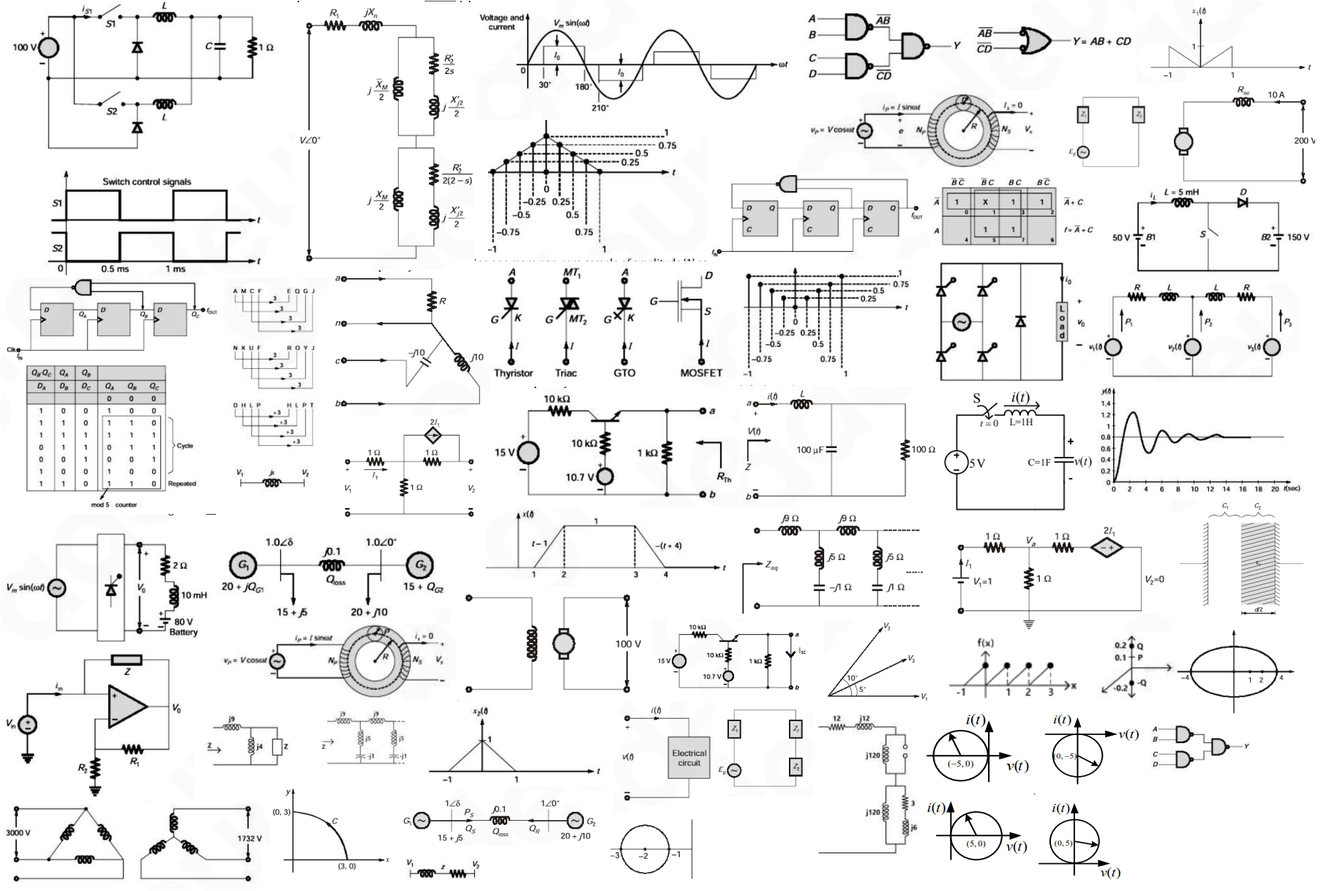
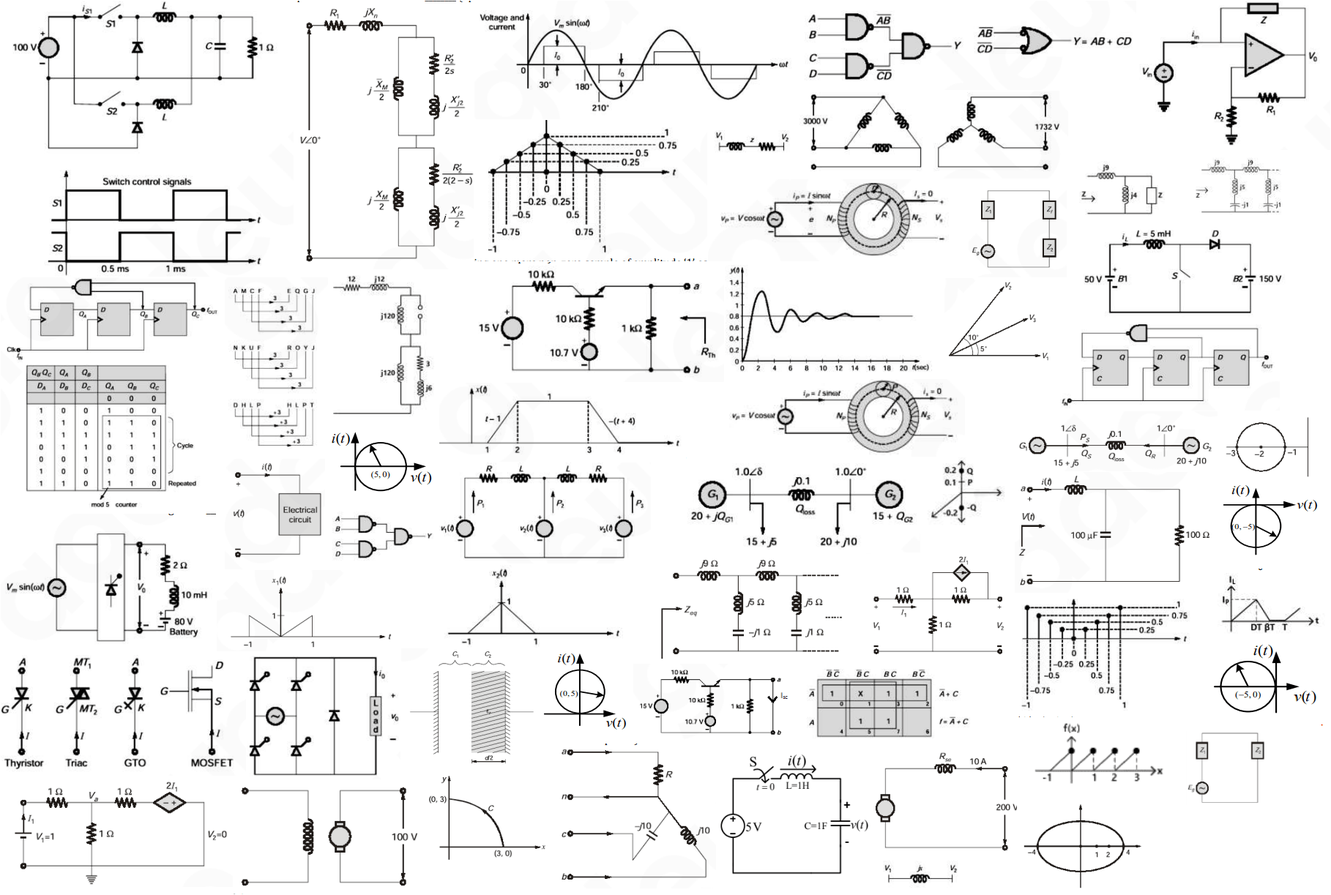
Updated

diff --git a/img/gate/elect/prev/gate_ee_2018.css b/img/gate/elect/prev/gate_ee_2018.css
@@ -8,166 +8,169 @@ Responsive: <div class="yourspritesname"></div>
 
 
 .GATE_EE_2018_11sol {max-width:126px; max-height:52px; }
-.GATE_EE_2018_11sol::after {content: '\00a0';display: inline-block; width:126px; height:52px; background-position: 18.284693269803455% 53.81974248927039%;background-size: 1432.5396825396826% 2340.3846153846152%;background-image: url(gate_ee_2018.png);padding: 0; }
+.GATE_EE_2018_11sol::after {content: '\00a0';display: inline-block; width:126px; height:52px; background-position: 70.44917257683215% 99.74380871050384%;background-size: 1442.857142857143% 2351.923076923077%;background-image: url(gate_ee_2018.png);padding: 0; }
 div.GATE_EE_2018_11sol::after {max-width:126px; width:100%;height:0;padding: 0 0 41.26984126984127% 0;}
 .GATE_EE_2018_11sola {max-width:121px; max-height:59px; }
-.GATE_EE_2018_11sola::after {content: '\00a0';display: inline-block; width:121px; height:59px; background-position: 32.36342042755344% 99.91364421416235%;background-size: 1491.7355371900826% 2062.7118644067796%;background-image: url(gate_ee_2018.png);padding: 0; }
+.GATE_EE_2018_11sola::after {content: '\00a0';display: inline-block; width:121px; height:59px; background-position: 56.98291101944608% 14.0893470790378%;background-size: 1502.4793388429753% 2072.8813559322034%;background-image: url(gate_ee_2018.png);padding: 0; }
 div.GATE_EE_2018_11sola::after {max-width:121px; width:100%;height:0;padding: 0 0 48.760330578512395% 0;}
 .GATE_EE_2018_14 {max-width:154px; max-height:76px; }
-.GATE_EE_2018_14::after {content: '\00a0';display: inline-block; width:154px; height:76px; background-position: 94.60932768019383% 86.24014022787028%;background-size: 1172.077922077922% 1601.3157894736842%;background-image: url(gate_ee_2018.png);padding: 0; }
+.GATE_EE_2018_14::after {content: '\00a0';display: inline-block; width:154px; height:76px; background-position: 26.74278846153846% 60.76721883173496%;background-size: 1180.5194805194806% 1609.2105263157894%;background-image: url(gate_ee_2018.png);padding: 0; }
 div.GATE_EE_2018_14::after {max-width:154px; width:100%;height:0;padding: 0 0 49.35064935064935% 0;}
 .GATE_EE_2018_14sol {max-width:462px; max-height:122px; }
-.GATE_EE_2018_14sol::after {content: '\00a0';display: inline-block; width:462px; height:122px; background-position: 81.16157855547283% 0.091324200913242%;background-size: 390.6926406926407% 997.5409836065573%;background-image: url(gate_ee_2018.png);padding: 0; }
+.GATE_EE_2018_14sol::after {content: '\00a0';display: inline-block; width:462px; height:122px; background-position: 80.3834808259587% 0.09082652134423251%;background-size: 393.5064935064935% 1002.4590163934427%;background-image: url(gate_ee_2018.png);padding: 0; }
 div.GATE_EE_2018_14sol::after {max-width:462px; width:100%;height:0;padding: 0 0 26.406926406926406% 0;}
 .GATE_EE_2018_16sol {max-width:210px; max-height:104px; }
-.GATE_EE_2018_16sol::after {content: '\00a0';display: inline-block; width:210px; height:104px; background-position: 80.25078369905957% 77.62803234501348%;background-size: 859.5238095238095% 1170.1923076923076%;background-image: url(gate_ee_2018.png);padding: 0; }
+.GATE_EE_2018_16sol::after {content: '\00a0';display: inline-block; width:210px; height:104px; background-position: 86.87810945273633% 87.66756032171581%;background-size: 865.7142857142857% 1175.9615384615386%;background-image: url(gate_ee_2018.png);padding: 0; }
 div.GATE_EE_2018_16sol::after {max-width:210px; width:100%;height:0;padding: 0 0 49.523809523809526% 0;}
 .GATE_EE_2018_17 {max-width:441px; max-height:162px; }
-.GATE_EE_2018_17::after {content: '\00a0';display: inline-block; width:441px; height:162px; background-position: 47.50733137829912% 0.0947867298578199%;background-size: 409.297052154195% 751.2345679012345%;background-image: url(gate_ee_2018.png);padding: 0; }
+.GATE_EE_2018_17::after {content: '\00a0';display: inline-block; width:441px; height:162px; background-position: 47.05882352941177% 0.0942507068803016%;background-size: 412.2448979591837% 754.9382716049382%;background-image: url(gate_ee_2018.png);padding: 0; }
 div.GATE_EE_2018_17::after {max-width:441px; width:100%;height:0;padding: 0 0 36.734693877551024% 0;}
 .GATE_EE_2018_19 {max-width:214px; max-height:152px; }
-.GATE_EE_2018_19::after {content: '\00a0';display: inline-block; width:214px; height:152px; background-position: 28.221244500314267% 53.333333333333336%;background-size: 843.4579439252336% 800.6578947368421%;background-image: url(gate_ee_2018.png);padding: 0; }
+.GATE_EE_2018_19::after {content: '\00a0';display: inline-block; width:214px; height:152px; background-position: 73.00498753117208% 70.58823529411765%;background-size: 849.5327102803739% 804.6052631578947%;background-image: url(gate_ee_2018.png);padding: 0; }
 div.GATE_EE_2018_19::after {max-width:214px; width:100%;height:0;padding: 0 0 71.02803738317758% 0;}
 .GATE_EE_2018_19sol {max-width:317px; max-height:151px; }
-.GATE_EE_2018_19sol::after {content: '\00a0';display: inline-block; width:317px; height:151px; background-position: 86.15591397849462% 66.79174484052533%;background-size: 569.4006309148265% 805.9602649006622%;background-image: url(gate_ee_2018.png);padding: 0; }
+.GATE_EE_2018_19sol::after {content: '\00a0';display: inline-block; width:317px; height:151px; background-position: 0.06662225183211193% 98.97388059701493%;background-size: 573.5015772870662% 809.933774834437%;background-image: url(gate_ee_2018.png);padding: 0; }
 div.GATE_EE_2018_19sol::after {max-width:317px; width:100%;height:0;padding: 0 0 47.63406940063091% 0;}
 .GATE_EE_2018_23 {max-width:210px; max-height:174px; }
-.GATE_EE_2018_23::after {content: '\00a0';display: inline-block; width:210px; height:174px; background-position: 79.9373040752351% 33.74880153403643%;background-size: 859.5238095238095% 699.4252873563219%;background-image: url(gate_ee_2018.png);padding: 0; }
+.GATE_EE_2018_23::after {content: '\00a0';display: inline-block; width:210px; height:174px; background-position: 20.95771144278607% 84.93803622497617%;background-size: 865.7142857142857% 702.8735632183908%;background-image: url(gate_ee_2018.png);padding: 0; }
 div.GATE_EE_2018_23::after {max-width:210px; width:100%;height:0;padding: 0 0 82.85714285714286% 0;}
 .GATE_EE_2018_24sol {max-width:115px; max-height:106px; }
-.GATE_EE_2018_24sol::after {content: '\00a0';display: inline-block; width:115px; height:106px; background-position: 88.22485207100591% 77.76777677767777%;background-size: 1569.5652173913043% 1148.1132075471698%;background-image: url(gate_ee_2018.png);padding: 0; }
+.GATE_EE_2018_24sol::after {content: '\00a0';display: inline-block; width:115px; height:106px; background-position: 73.8696418085731% 55.95344673231871%;background-size: 1580.8695652173913% 1153.7735849056603%;background-image: url(gate_ee_2018.png);padding: 0; }
 div.GATE_EE_2018_24sol::after {max-width:115px; width:100%;height:0;padding: 0 0 92.17391304347827% 0;}
 .GATE_EE_2018_28 {max-width:289px; max-height:138px; }
-.GATE_EE_2018_28::after {content: '\00a0';display: inline-block; width:289px; height:138px; background-position: 98.02110817941953% 35.588507877664505%;background-size: 624.5674740484429% 881.8840579710145%;background-image: url(gate_ee_2018.png);padding: 0; }
+.GATE_EE_2018_28::after {content: '\00a0';display: inline-block; width:289px; height:138px; background-position: 39.24133420536298% 58.24884792626728%;background-size: 629.0657439446367% 886.231884057971%;background-image: url(gate_ee_2018.png);padding: 0; }
 div.GATE_EE_2018_28::after {max-width:289px; width:100%;height:0;padding: 0 0 47.75086505190311% 0;}
 .GATE_EE_2018_28sol {max-width:154px; max-height:123px; }
-.GATE_EE_2018_28sol::after {content: '\00a0';display: inline-block; width:154px; height:123px; background-position: 68.14052089642641% 77.23948811700183%;background-size: 1172.077922077922% 989.430894308943%;background-image: url(gate_ee_2018.png);padding: 0; }
+.GATE_EE_2018_28sol::after {content: '\00a0';display: inline-block; width:154px; height:123px; background-position: 77.52403846153847% 34.54545454545455%;background-size: 1180.5194805194806% 994.3089430894308%;background-image: url(gate_ee_2018.png);padding: 0; }
 div.GATE_EE_2018_28sol::after {max-width:154px; width:100%;height:0;padding: 0 0 79.87012987012987% 0;}
 .GATE_EE_2018_29 {max-width:264px; max-height:204px; }
-.GATE_EE_2018_29::after {content: '\00a0';display: inline-block; width:264px; height:204px; background-position: 0.06489292667099286% 87.95656465942744%;background-size: 683.7121212121212% 596.5686274509804%;background-image: url(gate_ee_2018.png);padding: 0; }
+.GATE_EE_2018_29::after {content: '\00a0';display: inline-block; width:264px; height:204px; background-position: 99.93564993564993% 0.09813542688910697%;background-size: 688.6363636363636% 599.5098039215686%;background-image: url(gate_ee_2018.png);padding: 0; }
 div.GATE_EE_2018_29::after {max-width:264px; width:100%;height:0;padding: 0 0 77.27272727272727% 0;}
 .GATE_EE_2018_30sol {max-width:129px; max-height:95px; }
-.GATE_EE_2018_30sol::after {content: '\00a0';display: inline-block; width:129px; height:95px; background-position: 49.105011933174225% 99.01960784313725%;background-size: 1399.2248062015503% 1281.0526315789473%;background-image: url(gate_ee_2018.png);padding: 0; }
+.GATE_EE_2018_30sol::after {content: '\00a0';display: inline-block; width:129px; height:95px; background-position: 98.5198342214328% 49.822695035460995%;background-size: 1409.3023255813953% 1287.3684210526317%;background-image: url(gate_ee_2018.png);padding: 0; }
 div.GATE_EE_2018_30sol::after {max-width:129px; width:100%;height:0;padding: 0 0 73.64341085271317% 0;}
 .GATE_EE_2018_32 {max-width:335px; max-height:169px; }
-.GATE_EE_2018_32::after {content: '\00a0';display: inline-block; width:335px; height:169px; background-position: 45.57823129251701% 34.16030534351145%;background-size: 538.8059701492538% 720.1183431952662%;background-image: url(gate_ee_2018.png);padding: 0; }
+.GATE_EE_2018_32::after {content: '\00a0';display: inline-block; width:335px; height:169px; background-position: 0.06743088334457181% 84.53510436432637%;background-size: 542.6865671641791% 723.6686390532544%;background-image: url(gate_ee_2018.png);padding: 0; }
 div.GATE_EE_2018_32::after {max-width:335px; width:100%;height:0;padding: 0 0 50.44776119402985% 0;}
 .GATE_EE_2018_35 {max-width:264px; max-height:156px; }
-.GATE_EE_2018_35::after {content: '\00a0';display: inline-block; width:264px; height:156px; background-position: 40.55807916937054% 75.58906691800189%;background-size: 683.7121212121212% 780.1282051282051%;background-image: url(gate_ee_2018.png);padding: 0; }
+.GATE_EE_2018_35::after {content: '\00a0';display: inline-block; width:264px; height:156px; background-position: 20.527670527670526% 99.90627928772258%;background-size: 688.6363636363636% 783.974358974359%;background-image: url(gate_ee_2018.png);padding: 0; }
 div.GATE_EE_2018_35::after {max-width:264px; width:100%;height:0;padding: 0 0 59.09090909090909% 0;}
 .GATE_EE_2018_36 {max-width:328px; max-height:106px; }
-.GATE_EE_2018_36::after {content: '\00a0';display: inline-block; width:328px; height:106px; background-position: 20.04062288422478% 76.68766876687668%;background-size: 550.3048780487804% 1148.1132075471698%;background-image: url(gate_ee_2018.png);padding: 0; }
+.GATE_EE_2018_36::after {content: '\00a0';display: inline-block; width:328px; height:106px; background-position: 66.44295302013423% 46.37421665174575%;background-size: 554.2682926829268% 1153.7735849056603%;background-image: url(gate_ee_2018.png);padding: 0; }
 div.GATE_EE_2018_36::after {max-width:328px; width:100%;height:0;padding: 0 0 32.31707317073171% 0;}
 .GATE_EE_2018_36sol {max-width:355px; max-height:112px; }
-.GATE_EE_2018_36sol::after {content: '\00a0';display: inline-block; width:355px; height:112px; background-position: 75.17241379310344% 11.221719457013574%;background-size: 508.4507042253521% 1086.607142857143%;background-image: url(gate_ee_2018.png);padding: 0; }
+.GATE_EE_2018_36sol::after {content: '\00a0';display: inline-block; width:355px; height:112px; background-position: 66.09706083390294% 22.05220522052205%;background-size: 512.112676056338% 1091.9642857142858%;background-image: url(gate_ee_2018.png);padding: 0; }
 div.GATE_EE_2018_36sol::after {max-width:355px; width:100%;height:0;padding: 0 0 31.549295774647888% 0;}
 .GATE_EE_2018_38 {max-width:280px; max-height:150px; }
-.GATE_EE_2018_38::after {content: '\00a0';display: inline-block; width:280px; height:150px; background-position: 65.63934426229508% 65.04217432052484%;background-size: 644.6428571428571% 811.3333333333334%;background-image: url(gate_ee_2018.png);padding: 0; }
+.GATE_EE_2018_38::after {content: '\00a0';display: inline-block; width:280px; height:150px; background-position: 57.86736020806242% 70.45666356011183%;background-size: 649.2857142857143% 815.3333333333334%;background-image: url(gate_ee_2018.png);padding: 0; }
 div.GATE_EE_2018_38::after {max-width:280px; width:100%;height:0;padding: 0 0 53.57142857142857% 0;}
 .GATE_EE_2018_38sol {max-width:307px; max-height:107px; }
-.GATE_EE_2018_38sol::after {content: '\00a0';display: inline-block; width:307px; height:107px; background-position: 17.757009345794394% 86.3963963963964%;background-size: 587.9478827361563% 1137.3831775700935%;background-image: url(gate_ee_2018.png);padding: 0; }
+.GATE_EE_2018_38sol::after {content: '\00a0';display: inline-block; width:307px; height:107px; background-position: 96.62475181998677% 18.45878136200717%;background-size: 592.1824104234528% 1142.9906542056074%;background-image: url(gate_ee_2018.png);padding: 0; }
 div.GATE_EE_2018_38sol::after {max-width:307px; width:100%;height:0;padding: 0 0 34.85342019543974% 0;}
 .GATE_EE_2018_39sol {max-width:189px; max-height:163px; }
-.GATE_EE_2018_39sol::after {content: '\00a0';display: inline-block; width:189px; height:163px; background-position: 99.00990099009901% 64.80075901328273%;background-size: 955.026455026455% 746.6257668711656%;background-image: url(gate_ee_2018.png);padding: 0; }
+.GATE_EE_2018_39sol::after {content: '\00a0';display: inline-block; width:189px; height:163px; background-position: 33.6402701043585% 83.58490566037736%;background-size: 961.9047619047619% 750.3067484662577%;background-image: url(gate_ee_2018.png);padding: 0; }
 div.GATE_EE_2018_39sol::after {max-width:189px; width:100%;height:0;padding: 0 0 86.24338624338624% 0;}
 .GATE_EE_2018_40 {max-width:137px; max-height:151px; }
-.GATE_EE_2018_40::after {content: '\00a0';display: inline-block; width:137px; height:151px; background-position: 50.299760191846524% 89.9624765478424%;background-size: 1317.5182481751824% 805.9602649006622%;background-image: url(gate_ee_2018.png);padding: 0; }
+.GATE_EE_2018_40::after {content: '\00a0';display: inline-block; width:137px; height:151px; background-position: 18.262938726948246% 58.48880597014925%;background-size: 1327.007299270073% 809.933774834437%;background-image: url(gate_ee_2018.png);padding: 0; }
 div.GATE_EE_2018_40::after {max-width:137px; width:100%;height:0;padding: 0 0 110.21897810218978% 0;}
 .GATE_EE_2018_41 {max-width:307px; max-height:126px; }
-.GATE_EE_2018_41::after {content: '\00a0';display: inline-block; width:307px; height:126px; background-position: 99.93324432576769% 23.556370302474793%;background-size: 587.9478827361563% 965.8730158730159%;background-image: url(gate_ee_2018.png);padding: 0; }
+.GATE_EE_2018_41::after {content: '\00a0';display: inline-block; width:307px; height:126px; background-position: 96.49238914626075% 28.623518687329078%;background-size: 592.1824104234528% 970.6349206349206%;background-image: url(gate_ee_2018.png);padding: 0; }
 div.GATE_EE_2018_41::after {max-width:307px; width:100%;height:0;padding: 0 0 41.042345276872965% 0;}
+.GATE_EE_2018_41sol {max-width:152px; max-height:97px; }
+.GATE_EE_2018_41sol::after {content: '\00a0';display: inline-block; width:152px; height:97px; background-position: 99.5798319327731% 69.00532859680284%;background-size: 1196.0526315789473% 1260.8247422680413%;background-image: url(gate_ee_2018.png);padding: 0; }
+div.GATE_EE_2018_41sol::after {max-width:152px; width:100%;height:0;padding: 0 0 63.81578947368421% 0;}
 .GATE_EE_2018_43 {max-width:400px; max-height:377px; }
-.GATE_EE_2018_43::after {content: '\00a0';display: inline-block; width:400px; height:377px; background-position: 0.0711743772241993% 0.11904761904761904%;background-size: 451.25% 322.81167108753317%;background-image: url(gate_ee_2018.png);padding: 0; }
+.GATE_EE_2018_43::after {content: '\00a0';display: inline-block; width:400px; height:377px; background-position: 0.07052186177715092% 0.1182033096926714%;background-size: 454.5% 324.40318302387266%;background-image: url(gate_ee_2018.png);padding: 0; }
 div.GATE_EE_2018_43::after {max-width:400px; width:100%;height:0;padding: 0 0 94.25% 0;}
 .GATE_EE_2018_44sol {max-width:225px; max-height:114px; }
-.GATE_EE_2018_44sol::after {content: '\00a0';display: inline-block; width:225px; height:114px; background-position: 80.44303797468355% 21.486854034451497%;background-size: 802.2222222222222% 1067.5438596491229%;background-image: url(gate_ee_2018.png);padding: 0; }
+.GATE_EE_2018_44sol::after {content: '\00a0';display: inline-block; width:225px; height:114px; background-position: 69.05210295040804% 81.96573489630298%;background-size: 808% 1072.8070175438597%;background-image: url(gate_ee_2018.png);padding: 0; }
 div.GATE_EE_2018_44sol::after {max-width:225px; width:100%;height:0;padding: 0 0 50.666666666666664% 0;}
 .GATE_EE_2018_45 {max-width:303px; max-height:120px; }
-.GATE_EE_2018_45::after {content: '\00a0';display: inline-block; width:303px; height:120px; background-position: 64.38082556591212% 21.60437556973564%;background-size: 595.7095709570957% 1014.1666666666666%;background-image: url(gate_ee_2018.png);padding: 0; }
+.GATE_EE_2018_45::after {content: '\00a0';display: inline-block; width:303px; height:120px; background-position: 95.37953795379538% 39.9818676337262%;background-size: 600% 1019.1666666666666%;background-image: url(gate_ee_2018.png);padding: 0; }
 div.GATE_EE_2018_45::after {max-width:303px; width:100%;height:0;padding: 0 0 39.603960396039604% 0;}
 .GATE_EE_2018_45sol {max-width:305px; max-height:322px; }
-.GATE_EE_2018_45sol::after {content: '\00a0';display: inline-block; width:305px; height:322px; background-position: 0.06666666666666667% 42.3463687150838%;background-size: 591.8032786885246% 377.9503105590062%;background-image: url(gate_ee_2018.png);padding: 0; }
+.GATE_EE_2018_45sol::after {content: '\00a0';display: inline-block; width:305px; height:322px; background-position: 0.06609385327164574% 42.06437291897891%;background-size: 596.0655737704918% 379.81366459627327%;background-image: url(gate_ee_2018.png);padding: 0; }
 div.GATE_EE_2018_45sol::after {max-width:305px; width:100%;height:0;padding: 0 0 105.57377049180327% 0;}
 .GATE_EE_2018_46 {max-width:245px; max-height:367px; }
-.GATE_EE_2018_46::after {content: '\00a0';display: inline-block; width:245px; height:367px; background-position: 25.76923076923077% 0.11764705882352941%;background-size: 736.734693877551% 331.6076294277929%;background-image: url(gate_ee_2018.png);padding: 0; }
+.GATE_EE_2018_46::after {content: '\00a0';display: inline-block; width:245px; height:367px; background-position: 25.556261919898283% 0.11682242990654206%;background-size: 742.0408163265306% 333.2425068119891%;background-image: url(gate_ee_2018.png);padding: 0; }
 div.GATE_EE_2018_46::after {max-width:245px; width:100%;height:0;padding: 0 0 149.79591836734693% 0;}
 .GATE_EE_2018_46sol {max-width:150px; max-height:213px; }
-.GATE_EE_2018_46sol::after {content: '\00a0';display: inline-block; width:150px; height:213px; background-position: 67.190332326284% 96.51394422310757%;background-size: 1203.3333333333333% 571.3615023474179%;background-image: url(gate_ee_2018.png);padding: 0; }
+.GATE_EE_2018_46sol::after {content: '\00a0';display: inline-block; width:150px; height:213px; background-position: 26.918465227817745% 36.53465346534654%;background-size: 1212% 574.1784037558685%;background-image: url(gate_ee_2018.png);padding: 0; }
 div.GATE_EE_2018_46sol::after {max-width:150px; width:100%;height:0;padding: 0 0 142% 0;}
 .GATE_EE_2018_47 {max-width:341px; max-height:164px; }
-.GATE_EE_2018_47::after {content: '\00a0';display: inline-block; width:341px; height:164px; background-position: 45.76502732240437% 50.142450142450144%;background-size: 529.325513196481% 742.0731707317074%;background-image: url(gate_ee_2018.png);padding: 0; }
+.GATE_EE_2018_47::after {content: '\00a0';display: inline-block; width:341px; height:164px; background-position: 43.87271496276236% 33.80547686496695%;background-size: 533.1378299120234% 745.7317073170732%;background-image: url(gate_ee_2018.png);padding: 0; }
 div.GATE_EE_2018_47::after {max-width:341px; width:100%;height:0;padding: 0 0 48.09384164222874% 0;}
 .GATE_EE_2018_47sol {max-width:234px; max-height:108px; }
-.GATE_EE_2018_47sol::after {content: '\00a0';display: inline-block; width:234px; height:108px; background-position: 56.65181413112667% 76.19477006311993%;background-size: 771.3675213675214% 1126.851851851852%;background-image: url(gate_ee_2018.png);padding: 0; }
+.GATE_EE_2018_47sol::after {content: '\00a0';display: inline-block; width:234px; height:108px; background-position: 54.60858585858586% 81.34529147982063%;background-size: 776.9230769230769% 1132.4074074074074%;background-image: url(gate_ee_2018.png);padding: 0; }
 div.GATE_EE_2018_47sol::after {max-width:234px; width:100%;height:0;padding: 0 0 46.15384615384615% 0;}
 .GATE_EE_2018_49 {max-width:320px; max-height:130px; }
-.GATE_EE_2018_49::after {content: '\00a0';display: inline-block; width:320px; height:130px; background-position: 19.932659932659934% 66.32934682612695%;background-size: 564.0625% 936.1538461538462%;background-image: url(gate_ee_2018.png);padding: 0; }
+.GATE_EE_2018_49::after {content: '\00a0';display: inline-block; width:320px; height:130px; background-position: 62.55006675567423% 57.18206770356816%;background-size: 568.125% 940.7692307692307%;background-image: url(gate_ee_2018.png);padding: 0; }
 div.GATE_EE_2018_49::after {max-width:320px; width:100%;height:0;padding: 0 0 40.625% 0;}
 .GATE_EE_2018_49sol {max-width:277px; max-height:82px; }
-.GATE_EE_2018_49sol::after {content: '\00a0';display: inline-block; width:277px; height:82px; background-position: 35.667539267015705% 94.62555066079295%;background-size: 651.6245487364621% 1484.1463414634147%;background-image: url(gate_ee_2018.png);padding: 0; }
+.GATE_EE_2018_49sol::after {content: '\00a0';display: inline-block; width:277px; height:82px; background-position: 89.9415963659961% 49.25503943908852%;background-size: 656.3176895306859% 1491.4634146341464%;background-image: url(gate_ee_2018.png);padding: 0; }
 div.GATE_EE_2018_49sol::after {max-width:277px; width:100%;height:0;padding: 0 0 29.6028880866426% 0;}
 .GATE_EE_2018_50 {max-width:220px; max-height:198px; }
-.GATE_EE_2018_50::after {content: '\00a0';display: inline-block; width:220px; height:198px; background-position: 28.32807570977918% 36.21197252208047%;background-size: 820.4545454545455% 614.6464646464647%;background-image: url(gate_ee_2018.png);padding: 0; }
+.GATE_EE_2018_50::after {content: '\00a0';display: inline-block; width:220px; height:198px; background-position: 47.4342928660826% 99.1219512195122%;background-size: 826.3636363636364% 617.6767676767677%;background-image: url(gate_ee_2018.png);padding: 0; }
 div.GATE_EE_2018_50::after {max-width:220px; width:100%;height:0;padding: 0 0 90% 0;}
 .GATE_EE_2018_51sol {max-width:204px; max-height:143px; }
-.GATE_EE_2018_51sol::after {content: '\00a0';display: inline-block; width:204px; height:143px; background-position: 99.93753903810119% 10.521415270018622%;background-size: 884.8039215686274% 851.048951048951%;background-image: url(gate_ee_2018.png);padding: 0; }
+.GATE_EE_2018_51sol::after {content: '\00a0';display: inline-block; width:204px; height:143px; background-position: 73.85377942998761% 94.81481481481481%;background-size: 891.1764705882352% 855.2447552447552%;background-image: url(gate_ee_2018.png);padding: 0; }
 div.GATE_EE_2018_51sol::after {max-width:204px; width:100%;height:0;padding: 0 0 70.09803921568627% 0;}
 .GATE_EE_2018_52 {max-width:299px; max-height:159px; }
-.GATE_EE_2018_52::after {content: '\00a0';display: inline-block; width:299px; height:159px; background-position: 99.46879150066401% 49.43289224952741%;background-size: 603.6789297658863% 765.4088050314465%;background-image: url(gate_ee_2018.png);padding: 0; }
+.GATE_EE_2018_52::after {content: '\00a0';display: inline-block; width:299px; height:159px; background-position: 65.174456879526% 33.64661654135338%;background-size: 608.0267558528428% 769.1823899371069%;background-image: url(gate_ee_2018.png);padding: 0; }
 div.GATE_EE_2018_52::after {max-width:299px; width:100%;height:0;padding: 0 0 53.17725752508361% 0;}
 .GATE_EE_2018_53sol {max-width:132px; max-height:112px; }
-.GATE_EE_2018_53sol::after {content: '\00a0';display: inline-block; width:132px; height:112px; background-position: 86.43156007172743% 11.221719457013574%;background-size: 1367.4242424242425% 1086.607142857143%;background-image: url(gate_ee_2018.png);padding: 0; }
+.GATE_EE_2018_53sol::after {content: '\00a0';display: inline-block; width:132px; height:112px; background-position: 95.37366548042705% 89.37893789378938%;background-size: 1377.2727272727273% 1091.9642857142858%;background-image: url(gate_ee_2018.png);padding: 0; }
 div.GATE_EE_2018_53sol::after {max-width:132px; width:100%;height:0;padding: 0 0 84.84848484848484% 0;}
 .GATE_EE_2018_53sola {max-width:134px; max-height:134px; }
-.GATE_EE_2018_53sola::after {content: '\00a0';display: inline-block; width:134px; height:134px; background-position: 58.46798324356673% 88.08864265927978%;background-size: 1347.0149253731342% 908.2089552238806%;background-image: url(gate_ee_2018.png);padding: 0; }
+.GATE_EE_2018_53sola::after {content: '\00a0';display: inline-block; width:134px; height:134px; background-position: 78.56294536817101% 22.497704315886136%;background-size: 1356.7164179104477% 912.6865671641791%;background-image: url(gate_ee_2018.png);padding: 0; }
 div.GATE_EE_2018_53sola::after {max-width:134px; width:100%;height:0;padding: 0 0 100% 0;}
 .GATE_EE_2018_54sol {max-width:169px; max-height:136px; }
-.GATE_EE_2018_54sol::after {content: '\00a0';display: inline-block; width:169px; height:136px; background-position: 98.22738386308069% 78.35337650323774%;background-size: 1068.0473372781064% 894.8529411764706%;background-image: url(gate_ee_2018.png);padding: 0; }
+.GATE_EE_2018_54sol::after {content: '\00a0';display: inline-block; width:169px; height:136px; background-position: 84.71801091570649% 99.90800367985281%;background-size: 1075.7396449704142% 899.2647058823529%;background-image: url(gate_ee_2018.png);padding: 0; }
 div.GATE_EE_2018_54sol::after {max-width:169px; width:100%;height:0;padding: 0 0 80.4733727810651% 0;}
 .GATE_EE_2018_56 {max-width:294px; max-height:188px; }
-.GATE_EE_2018_56::after {content: '\00a0';display: inline-block; width:294px; height:188px; background-position: 0.06618133686300463% 68.22157434402332%;background-size: 613.9455782312925% 647.3404255319149%;background-image: url(gate_ee_2018.png);padding: 0; }
+.GATE_EE_2018_56::after {content: '\00a0';display: inline-block; width:294px; height:188px; background-position: 0.06561679790026247% 67.82608695652173%;background-size: 618.3673469387755% 650.531914893617%;background-image: url(gate_ee_2018.png);padding: 0; }
 div.GATE_EE_2018_56::after {max-width:294px; width:100%;height:0;padding: 0 0 63.945578231292515% 0;}
 .GATE_EE_2018_57 {max-width:173px; max-height:144px; }
-.GATE_EE_2018_57::after {content: '\00a0';display: inline-block; width:173px; height:144px; background-position: 22.732843137254903% 99.4408201304753%;background-size: 1043.3526011560693% 845.1388888888889%;background-image: url(gate_ee_2018.png);padding: 0; }
+.GATE_EE_2018_57::after {content: '\00a0';display: inline-block; width:173px; height:144px; background-position: 35.5015197568389% 97.31232622798888%;background-size: 1050.8670520231215% 849.3055555555555%;background-image: url(gate_ee_2018.png);padding: 0; }
 div.GATE_EE_2018_57::after {max-width:173px; width:100%;height:0;padding: 0 0 83.23699421965318% 0;}
 .GATE_EE_2018_61 {max-width:272px; max-height:165px; }
-.GATE_EE_2018_61::after {content: '\00a0';display: inline-block; width:272px; height:165px; background-position: 66.0143509458578% 50.19011406844106%;background-size: 663.6029411764706% 737.5757575757576%;background-image: url(gate_ee_2018.png);padding: 0; }
+.GATE_EE_2018_61::after {content: '\00a0';display: inline-block; width:272px; height:165px; background-position: 89.65071151358345% 60.9640831758034%;background-size: 668.3823529411765% 741.2121212121212%;background-image: url(gate_ee_2018.png);padding: 0; }
 div.GATE_EE_2018_61::after {max-width:272px; width:100%;height:0;padding: 0 0 60.661764705882355% 0;}
 .GATE_EE_2018_62 {max-width:212px; max-height:184px; }
-.GATE_EE_2018_62::after {content: '\00a0';display: inline-block; width:212px; height:184px; background-position: 80.66541117388574% 51.01645692158761%;background-size: 851.4150943396227% 661.4130434782609%;background-image: url(gate_ee_2018.png);padding: 0; }
+.GATE_EE_2018_62::after {content: '\00a0';display: inline-block; width:212px; height:184px; background-position: 60.95890410958904% 98.5563041385948%;background-size: 857.5471698113207% 664.6739130434783%;background-image: url(gate_ee_2018.png);padding: 0; }
 div.GATE_EE_2018_62::after {max-width:212px; width:100%;height:0;padding: 0 0 86.79245283018868% 0;}
 .GATE_EE_2018_62a {max-width:145px; max-height:118px; }
-.GATE_EE_2018_62a::after {content: '\00a0';display: inline-block; width:145px; height:118px; background-position: 85.3012048192771% 88.35304822565969%;background-size: 1244.8275862068965% 1031.3559322033898%;background-image: url(gate_ee_2018.png);padding: 0; }
+.GATE_EE_2018_62a::after {content: '\00a0';display: inline-block; width:145px; height:118px; background-position: 99.16317991631799% 59.547511312217196%;background-size: 1253.7931034482758% 1036.4406779661017%;background-image: url(gate_ee_2018.png);padding: 0; }
 div.GATE_EE_2018_62a::after {max-width:145px; width:100%;height:0;padding: 0 0 81.37931034482759% 0;}
 .GATE_EE_2018_62b {max-width:150px; max-height:113px; }
-.GATE_EE_2018_62b::after {content: '\00a0';display: inline-block; width:150px; height:113px; background-position: 76.31419939577039% 98.46014492753623%;background-size: 1203.3333333333333% 1076.9911504424779%;background-image: url(gate_ee_2018.png);padding: 0; }
+.GATE_EE_2018_62b::after {content: '\00a0';display: inline-block; width:150px; height:113px; background-position: 26.918465227817745% 52.52252252252252%;background-size: 1212% 1082.3008849557523%;background-image: url(gate_ee_2018.png);padding: 0; }
 div.GATE_EE_2018_62b::after {max-width:150px; width:100%;height:0;padding: 0 0 75.33333333333333% 0;}
 .GATE_EE_2018_62c {max-width:126px; max-height:125px; }
-.GATE_EE_2018_62c::after {content: '\00a0';display: inline-block; width:126px; height:125px; background-position: 84.21679571173317% 99.81684981684981%;background-size: 1432.5396825396826% 973.6%;background-image: url(gate_ee_2018.png);padding: 0; }
+.GATE_EE_2018_62c::after {content: '\00a0';display: inline-block; width:126px; height:125px; background-position: 43.61702127659574% 80.69216757741349%;background-size: 1442.857142857143% 978.4%;background-image: url(gate_ee_2018.png);padding: 0; }
 div.GATE_EE_2018_62c::after {max-width:126px; width:100%;height:0;padding: 0 0 99.2063492063492% 0;}
 .GATE_EE_2018_62d {max-width:152px; max-height:117px; }
-.GATE_EE_2018_62d::after {content: '\00a0';display: inline-block; width:152px; height:117px; background-position: 76.40653357531761% 88.0909090909091%;background-size: 1187.5% 1040.1709401709402%;background-image: url(gate_ee_2018.png);padding: 0; }
+.GATE_EE_2018_62d::after {content: '\00a0';display: inline-block; width:152px; height:117px; background-position: 99.33973589435774% 79.11392405063292%;background-size: 1196.0526315789473% 1045.2991452991453%;background-image: url(gate_ee_2018.png);padding: 0; }
 div.GATE_EE_2018_62d::after {max-width:152px; width:100%;height:0;padding: 0 0 76.97368421052632% 0;}
 .GATE_EE_2018_63sol {max-width:246px; max-height:111px; }
-.GATE_EE_2018_63sol::after {content: '\00a0';display: inline-block; width:246px; height:111px; background-position: 99.61513790891597% 0.09041591320072333%;background-size: 733.739837398374% 1096.3963963963963%;background-image: url(gate_ee_2018.png);padding: 0; }
+.GATE_EE_2018_63sol::after {content: '\00a0';display: inline-block; width:246px; height:111px; background-position: 18.829516539440203% 70.05395683453237%;background-size: 739.0243902439024% 1101.8018018018017%;background-image: url(gate_ee_2018.png);padding: 0; }
 div.GATE_EE_2018_63sol::after {max-width:246px; width:100%;height:0;padding: 0 0 45.1219512195122% 0;}
 .GATE_EE_2018_63sola {max-width:268px; max-height:169px; }
-.GATE_EE_2018_63sola::after {content: '\00a0';display: inline-block; width:268px; height:169px; background-position: 65.45217957059207% 34.16030534351145%;background-size: 673.5074626865671% 720.1183431952662%;background-image: url(gate_ee_2018.png);padding: 0; }
+.GATE_EE_2018_63sola::after {content: '\00a0';display: inline-block; width:268px; height:169px; background-position: 89.41935483870968% 76.94497153700189%;background-size: 678.3582089552239% 723.6686390532544%;background-image: url(gate_ee_2018.png);padding: 0; }
 div.GATE_EE_2018_63sola::after {max-width:268px; width:100%;height:0;padding: 0 0 63.059701492537314% 0;}
 .GATE_EE_2018_63solb {max-width:264px; max-height:114px; }
-.GATE_EE_2018_63solb::after {content: '\00a0';display: inline-block; width:264px; height:114px; background-position: 37.248539909149905% 86.94469628286491%;background-size: 683.7121212121212% 1067.5438596491229%;background-image: url(gate_ee_2018.png);padding: 0; }
+.GATE_EE_2018_63solb::after {content: '\00a0';display: inline-block; width:264px; height:114px; background-position: 38.61003861003861% 69.52209197475203%;background-size: 688.6363636363636% 1072.8070175438597%;background-image: url(gate_ee_2018.png);padding: 0; }
 div.GATE_EE_2018_63solb::after {max-width:264px; width:100%;height:0;padding: 0 0 43.18181818181818% 0;}
 .GATE_EE_2018_63solc {max-width:318px; max-height:193px; }
-.GATE_EE_2018_63solc::after {content: '\00a0';display: inline-block; width:318px; height:193px; background-position: 43.577673167451245% 16.015625%;background-size: 567.6100628930818% 630.5699481865284%;background-image: url(gate_ee_2018.png);padding: 0; }
+.GATE_EE_2018_63solc::after {content: '\00a0';display: inline-block; width:318px; height:193px; background-position: 43.2% 15.922330097087379%;background-size: 571.6981132075472% 633.6787564766839%;background-image: url(gate_ee_2018.png);padding: 0; }
 div.GATE_EE_2018_63solc::after {max-width:318px; width:100%;height:0;padding: 0 0 60.691823899371066% 0;}
 .GATE_EE_2018_64sol {max-width:336px; max-height:108px; }
-.GATE_EE_2018_64sol::after {content: '\00a0';display: inline-block; width:336px; height:108px; background-position: 45.200816882232814% 62.48872858431019%;background-size: 537.202380952381% 1126.851851851852%;background-image: url(gate_ee_2018.png);padding: 0; }
+.GATE_EE_2018_64sol::after {content: '\00a0';display: inline-block; width:336px; height:108px; background-position: 40.48582995951417% 46.90582959641256%;background-size: 541.0714285714286% 1132.4074074074074%;background-image: url(gate_ee_2018.png);padding: 0; }
 div.GATE_EE_2018_64sol::after {max-width:336px; width:100%;height:0;padding: 0 0 32.142857142857146% 0;}
 .GATE_EE_2018_65sol {max-width:369px; max-height:120px; }
-.GATE_EE_2018_65sol::after {content: '\00a0';display: inline-block; width:369px; height:120px; background-position: 0.06963788300835655% 99.90884229717412%;background-size: 489.159891598916% 1014.1666666666666%;background-image: url(gate_ee_2018.png);padding: 0; }
+.GATE_EE_2018_65sol::after {content: '\00a0';display: inline-block; width:369px; height:120px; background-position: 75.22429261559697% 11.242067089755214%;background-size: 492.6829268292683% 1019.1666666666666%;background-image: url(gate_ee_2018.png);padding: 0; }
 div.GATE_EE_2018_65sol::after {max-width:369px; width:100%;height:0;padding: 0 0 32.520325203252035% 0;}
 .GATE_EE_2018_6sol {max-width:141px; max-height:247px; }
-.GATE_EE_2018_6sol::after {content: '\00a0';display: inline-block; width:141px; height:247px; background-position: 18.44951923076923% 39.07216494845361%;background-size: 1280.1418439716313% 492.7125506072874%;background-image: url(gate_ee_2018.png);padding: 0; }
+.GATE_EE_2018_6sol::after {content: '\00a0';display: inline-block; width:141px; height:247px; background-position: 18.30649970184854% 38.83196721311475%;background-size: 1289.3617021276596% 495.1417004048583%;background-image: url(gate_ee_2018.png);padding: 0; }
 div.GATE_EE_2018_6sol::after {max-width:141px; width:100%;height:0;padding: 0 0 175.17730496453902% 0;}
 
-/* $TexturePacker:SmartUpdate:2f2a121995d1ff0db112da09c0bde131:ecea14685e7c28f1310d987aa2c92984:8e9dc3de23a27da9cc75379af895934e$ */
+/* $TexturePacker:SmartUpdate:dd57e9b6330a00fd10d2a47089c24c36:4879f198f2341d741b28c4920f9c7912:8e9dc3de23a27da9cc75379af895934e$ */
